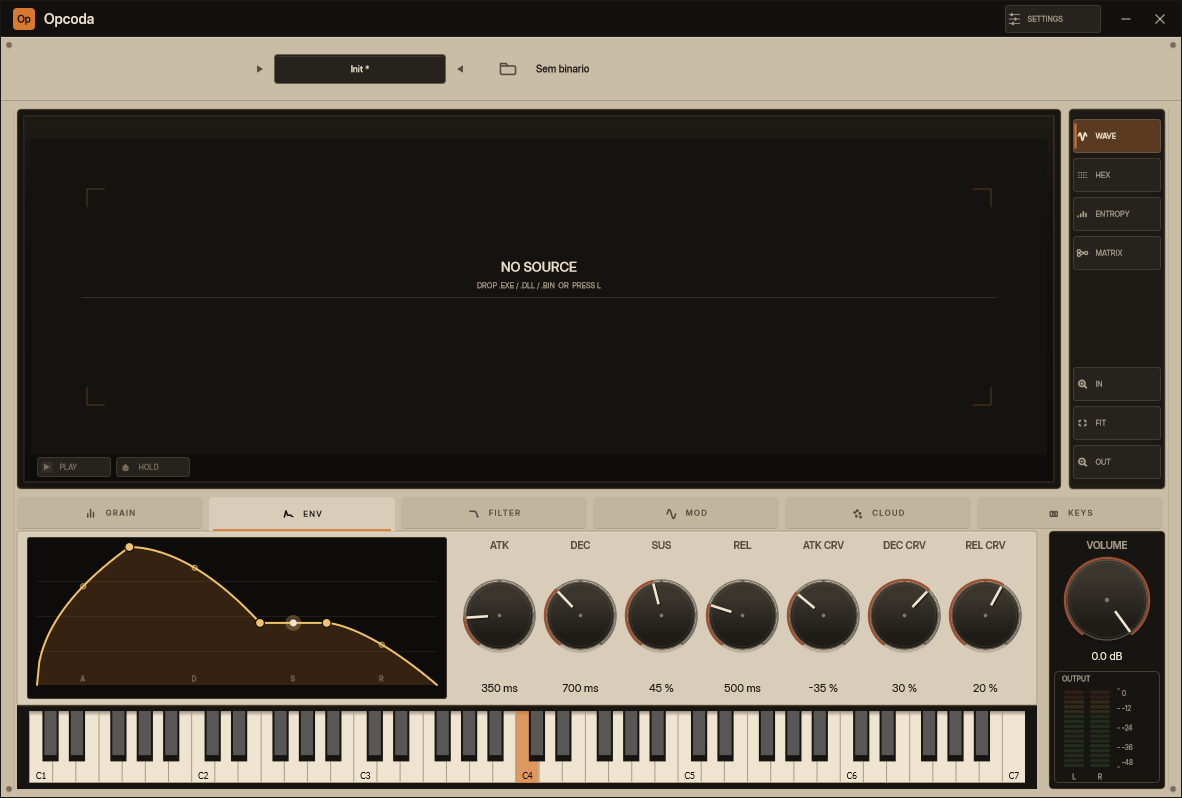
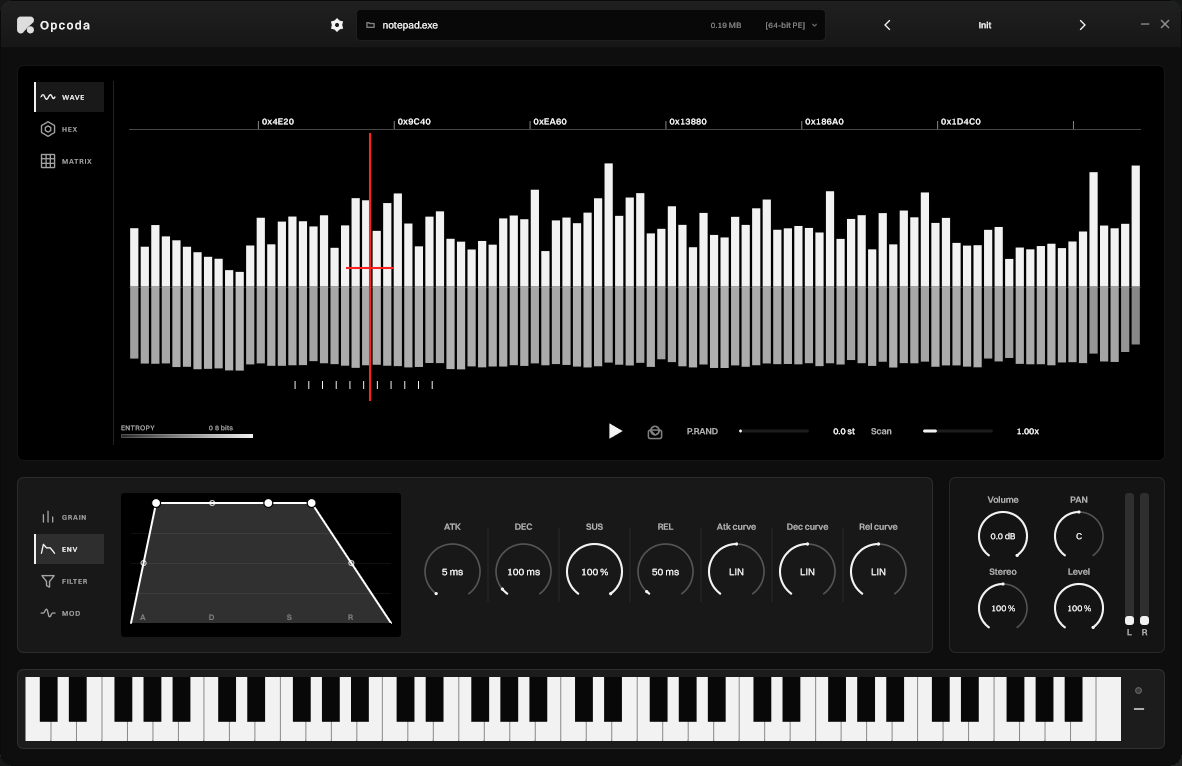
docs: capturas novas e README sem referencias antigas
- capturas 1182x766 das vistas WAVE/HEX/MATRIX e dos modulos ENV/FILTER/MOD
- remove opcoda-entropy.png, opcoda-icon.png e os recortes antigos
- README sem 'monochrome' e sem 'the screen stays black'

diff --git a/README.md b/README.md
@@ -12,8 +12,7 @@
 
 Opcoda is a VST3 instrument and a standalone app for Windows x64. It reads a
 Portable Executable (`.exe`, `.dll`, `.bin`, `.sys`), turns the bytes into samples
-and plays them through an eight-voice granular engine. The instrument is
-monochrome, runs a 61-parameter engine and keeps the audio path free of
+and plays them through an eight-voice granular engine. The audio path is free of
 allocations.
 
 ![Opcoda interface with a binary loaded](docs/assets/screenshots/opcoda-ui.png)
@@ -29,8 +28,7 @@ allocations.
   built-in decoder, no external library.
 - **Real-time safe**: no allocation, no lock, no I/O on the audio path; UI-to-DSP
   communication goes through atomics and a single-producer queue.
-- **Five themes**: Graphite, Classic, Light, Amber and Cyan. The screen stays black
-  in all of them, so the waveform always reads.
+- **Five themes**: Graphite, Classic, Light, Amber and Cyan.
 - **Factory presets** and `.opcoda` files to save and load state.
 - **Standalone and VST3** from the same binary.
 
@@ -52,9 +50,9 @@ C++ runtime when it is missing.
 | --- | --- |
 | ![ADSR with the live point](docs/assets/screenshots/opcoda-env.png) | ![Filter response with the analyser](docs/assets/screenshots/opcoda-filter.png) |
 
-| `HEX` | `ENTROPY` |
+| `HEX` | `MATRIX` |
 | --- | --- |
-| ![Byte grid with ASM](docs/assets/screenshots/opcoda-hex.png) | ![Entropy curve](docs/assets/screenshots/opcoda-entropy.png) |
+| ![Byte grid with ASM](docs/assets/screenshots/opcoda-hex.png) | ![Modulation matrix](docs/assets/screenshots/opcoda-matrix.png) |
 
 ## Build
 
